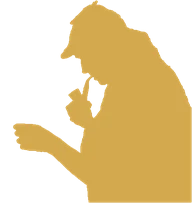
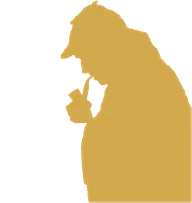
Hero: remove Sherlock's outstretched arm and the paper
Cuts the extended forearm out of the silhouette along a smooth coat
line so he simply stands smoking his pipe. Regenerates the traced
path, colour, normal map and brass icon from the new mask, drops the
paper meshes, and pulls the figure left on phones to stay centred.

Claude-Session: https://claude.ai/code/session_01Bi74Xs9USDGtjcCzuCmEsb

Changed region(s): [[0.0625, 0.5911, 0.4375, 0.9163], [0.375, 0.5911, 0.4688, 0.6502]]

diff --git a/components/three/sherlockPath.ts b/components/three/sherlockPath.ts
@@ -1,4 +1,4 @@
-// Traced from the reference silhouette (potrace, 1347×1425 px space), magnifier removed. Used to extrude the 3D Sherlock.
+// Traced from the reference silhouette (potrace, 1347×1425 px space), magnifier and outstretched arm removed. Used to extrude the 3D Sherlock.
 export const SHERLOCK_W = 1347
 export const SHERLOCK_H = 1425
-export const SHERLOCK_PATH = "M 669 7.5 C 665.0 11.0, 663.1 12, 660.4 12 C 655.0 12, 653.3 13.4, 649.5 20.9 C 644.5 30.8, 641.5 33, 633 33 C 627.2 33, 625.6 33.3, 623.3 35.3 C 621.7 36.6, 617.7 39.1, 614.3 40.8 C 610.9 42.5, 607.8 44.4, 607.4 45.0 C 607.1 45.5, 603.8 47.6, 600.1 49.5 C 586.4 56.8, 581 61.3, 581 65.6 C 581 67.9, 577.3 72.0, 559.7 89.4 C 548.0 101.0, 536.9 111.4, 534.9 112.5 C 533.0 113.6, 530.6 116.0, 529.5 117.9 C 526.4 123.1, 507.9 141.9, 503.7 144.0 C 501.7 145.1, 499.2 147.4, 498.3 149.2 C 497.4 151.0, 495.2 154.1, 493.3 156.2 C 488.9 161.2, 489.1 163.3, 494.4 168.7 C 498.8 173.1, 499.0 173.2, 503.6 172.5 C 509.8 171.6, 512.2 176.1, 508.7 182.3 C 508.1 183.5, 507.2 187.2, 506.9 190.5 C 506.1 197.6, 505.1 200.5, 499.3 212.7 C 496.2 219.4, 495 223.2, 495 226.5 C 495 229.5, 494.0 233.0, 492 237 C 489.9 241.0, 488.9 244.4, 488.9 247.7 C 488.9 250.3, 488.2 253.6, 487.5 255 C 486.4 256.8, 486.0 261.2, 486.0 271.3 C 486.0 280.2, 485.5 285.9, 484.7 287.3 C 484.1 288.5, 483.2 292.2, 482.9 295.5 C 482.1 302.5, 481.0 306.0, 476.3 315.5 C 474.4 319.3, 472.9 323.3, 472.9 324.3 C 472.9 325.4, 467.5 331.8, 460 339.5 C 447.5 352.1, 447 352.9, 447 356.8 C 447 359.8, 446.2 361.7, 444.1 364.2 C 442.6 366.0, 441.0 368.2, 440.6 369.2 C 440.3 370.2, 438.8 371.4, 437.4 372.0 C 436.0 372.5, 434.1 374.3, 433.2 376.0 C 432.2 377.7, 430.2 380.7, 428.7 382.7 C 426.2 385.9, 426 387.0, 426 394.7 L 426 403.3 431.3 408.6 L 436.6 414 443.4 414 C 447.1 414, 451.1 413.4, 452.3 412.7 C 453.5 412.1, 457.2 411.2, 460.5 410.9 C 467.9 410.1, 470.2 409.2, 487 401.2 C 494.9 397.4, 502.2 393.1, 504.7 390.8 C 509.2 386.7, 516.3 385.5, 521.0 388.0 C 523.3 389.2, 528 397.9, 528 401.0 C 528 405.4, 532.2 407.9, 539.7 408.0 C 543.7 408.0, 547.5 408.6, 549 409.5 C 550.3 410.2, 553.2 410.9, 555.3 410.9 C 558.5 410.9, 559.9 411.7, 563.1 414.8 L 567 418.7 567.0 433.1 C 567.0 443.7, 567.4 448.1, 568.5 450 C 569.3 451.4, 569.9 455.3, 570 459 C 570.0 462.6, 570.6 466.5, 571.5 468 C 572.2 469.3, 572.9 471.9, 572.9 473.8 C 572.9 475.6, 573.7 478.5, 574.6 480.2 C 575.9 482.8, 576.1 485.5, 575.7 495.4 L 575.2 507.5 579.4 511.7 L 583.7 516 593.4 516 C 600.5 516, 604.0 515.5, 606.3 514.3 C 612.2 511.2, 612.9 511, 614.8 511 C 617.5 511, 623.0 513.9, 623.7 515.8 C 624.0 516.7, 626.7 520.0, 629.6 523.1 C 635.3 529.2, 636.6 533.6, 633.3 536.2 C 632.4 536.9, 626.2 542.7, 619.5 549.2 C 606.0 562.2, 601.6 569.6, 597 586.5 C 595.9 590.3, 594.1 595.6, 592.3 599.7 C 591.6 601.5, 591 604.5, 591 606.3 C 591 608.5, 589.9 611.0, 588 613.5 C 585.2 616.9, 585 617.9, 585 625.1 C 585 631.4, 584.5 634.0, 582.5 638.1 C 579.7 643.9, 579.4 646.1, 581.1 648.8 C 582.5 651.1, 576.4 663.2, 573.6 663.8 C 572.4 664.0, 569.6 659.3, 562.6 645.2 C 553.1 626.3, 549.2 621, 545.0 621 C 542.8 621, 527.4 628.4, 526.5 629.9 C 526.1 630.5, 522.8 632.6, 519.1 634.5 C 509.2 639.7, 506.3 641.8, 498.5 649.1 C 494.6 652.7, 490.0 656.4, 488.3 657.3 C 484.1 659.4, 480 664.5, 480 667.6 C 480 669.2, 482.0 672.2, 486 676.5 C 489.3 680.0, 492 683.4, 492 684.0 C 492 684.6, 496.0 689.3, 501 694.5 C 505.9 699.6, 510 704.2, 510 704.8 C 510 706.6, 504.8 712.0, 501.6 713.6 C 499.9 714.5, 493.2 720.3, 486.9 726.6 C 480.5 732.8, 474.7 738, 474.1 738 C 472.0 738, 463.9 746.2, 461.9 750.3 C 459.4 755.5, 459.4 756.5, 462.5 762.8 C 463.8 765.6, 465 768.8, 465 769.8 C 465 770.8, 466.3 773.4, 468 775.5 C 469.6 777.5, 471.0 780.2, 471.0 781.3 C 471.0 782.5, 471.7 784.6, 472.5 786 C 473.2 787.3, 473.9 789.9, 473.9 791.7 C 474.0 796.1, 483.2 814.4, 488.1 819.7 C 492.0 824.0, 493.6 831.8, 491 833.5 C 488.4 835.0, 491.6 844.4, 496.1 848.6 C 498.2 850.5, 508.4 855.7, 516.2 858.8 C 517.7 859.4, 519 860.5, 519 861.2 C 519 863.4, 528.1 871.5, 533 873.7 C 538.0 875.9, 543.0 877.7, 547.5 879 C 557.3 881.6, 566.8 886.1, 569.9 889.4 C 572.5 892.2, 581.1 897, 583.5 897 C 585.4 897, 592.1 900.6, 593.0 902.1 C 593.4 902.7, 593.2 904.7, 592.5 906.4 C 589.9 912.5, 588.7 916.5, 588.0 921 C 587.6 923.4, 586.7 926.7, 585.9 928.2 C 584.8 930.5, 584.8 931.7, 585.8 934.5 C 586.7 936.9, 586.8 938.4, 586.0 939.9 C 585.4 940.9, 584.9 944.7, 584.9 948.1 C 584.9 951.7, 584.3 955.5, 583.5 957 C 582.7 958.3, 582.0 961.1, 582.0 963.1 C 582.0 965.5, 581.0 967.9, 579 970.5 C 576.5 973.5, 575.9 975.2, 575.9 979.3 C 575.9 982.1, 575.2 985.6, 574.5 987 C 573.7 988.3, 573.0 991.6, 573.0 994.2 C 573.0 997.5, 572.0 1000.9, 570 1005 C 567.9 1009.0, 567 1012.4, 567 1015.5 C 567 1018.0, 566.2 1021.4, 565.4 1023.1 C 564.1 1025.6, 563.9 1029.8, 564.1 1049.5 C 564.4 1070.6, 564.3 1073.0, 562.8 1073.0 C 561.9 1073, 560.6 1072.2, 559.9 1071.4 C 559.2 1070.5, 557.0 1068.9, 555.0 1067.8 C 550.3 1065.2, 545.4 1061.9, 540 1057.5 C 533.4 1052.2, 529.3 1049.5, 521.8 1045.5 C 518.1 1043.6, 514.8 1041.5, 514.5 1041.0 C 514.1 1040.4, 511.0 1038.5, 507.6 1036.8 C 504.2 1035.1, 500.6 1033.0, 499.6 1032.1 C 497.9 1030.6, 495.2 1028.8, 488.0 1024.5 C 486.1 1023.4, 482.5 1020.5, 479.8 1018.2 C 477.1 1015.9, 474.4 1014, 473.9 1014 C 473.3 1014, 470.0 1011.3, 466.5 1008 C 462.9 1004.7, 459.5 1002, 459 1002 C 458.4 1002, 455.0 999.3, 451.5 996 C 447.9 992.7, 444.5 990, 443.9 990 C 443.3 990, 438.6 986.0, 433.5 981.2 C 423.5 971.8, 421.0 969.9, 410.8 964.5 C 407.1 962.6, 403.8 960.5, 403.5 960.0 C 403.1 959.4, 400.0 957.5, 396.6 955.8 C 393.2 954.1, 389.6 952.0, 388.6 951.1 C 386.9 949.6, 384.2 947.8, 377.0 943.5 C 375.1 942.4, 371.5 939.7, 369 937.5 C 366.4 935.3, 362.9 932.7, 361.3 931.7 C 359.8 930.7, 356.4 928.6, 354 927 C 351.5 925.3, 348.2 923.2, 346.6 922.2 C 345.0 921.2, 342.5 919.5, 341.1 918.3 C 339.6 917.2, 334.3 914.1, 329.3 911.6 C 324.2 909.1, 319.8 906.5, 319.4 905.9 C 319.1 905.4, 314.4 902.6, 309.1 899.9 C 297.7 893.9, 294.4 891.9, 287.8 886.2 C 285.1 883.9, 282.0 882, 280.8 882 C 279.7 882, 277.3 881.2, 275.6 880.3 C 273.9 879.4, 271.3 878.0, 269.8 877.3 C 268.3 876.6, 264.3 875.9, 260.8 875.9 C 257.2 875.9, 253.4 875.3, 252 874.5 C 250.4 873.6, 246.4 873.0, 241.5 873 C 236.5 872.9, 232.5 872.3, 231 871.5 C 229.0 870.3, 223.3 870.0, 204 870 C 184.6 869.9, 178.9 869.6, 177 868.5 C 174.9 867.3, 168.7 867.0, 145.5 867.0 L 116.5 867.0 111.9 869.7 C 109.3 871.2, 105.7 873.4, 103.9 874.5 C 102.0 875.6, 98.8 878.1, 96.7 880.1 C 93.1 883.6, 93 883.9, 93 890.9 C 93 897.8, 93.0 898.1, 97.1 902.5 C 99.4 905.0, 103.7 908.3, 106.7 909.7 C 112.0 912.3, 112.1 912.5, 111.6 915.8 C 111.2 917.9, 109.4 920.9, 106.5 924.0 C 100.9 930.0, 100.3 935.7, 104.4 943.8 C 107.3 949.5, 115.0 956.9, 118.2 957.0 C 119.4 957.0, 121.6 957.7, 123 958.5 C 124.3 959.2, 126.9 959.9, 128.6 959.9 C 131.3 959.9, 135 962.0, 135 963.5 C 135 964.9, 126.0 973.4, 122.8 975.0 C 117.3 977.8, 112.6 988.4, 116 990.5 C 116.5 990.8, 117 992.4, 117 994.0 C 117 1000.0, 130.5 1011, 138.0 1011 C 143.2 1011, 145.3 1015.0, 142.5 1020 C 139.8 1024.6, 140.5 1038.2, 143.5 1041.9 C 147.6 1046.7, 155.1 1049.9, 162.3 1050.0 C 165.7 1050.0, 169.6 1050.7, 171 1051.5 C 172.4 1052.3, 176.3 1052.9, 180 1053 C 183.6 1053.0, 187.5 1053.6, 189 1054.5 C 190.3 1055.2, 193.1 1055.9, 195.0 1055.9 C 197.0 1055.9, 199.4 1056.6, 200.5 1057.4 C 202.1 1058.6, 207.0 1058.9, 226.6 1058.9 C 241.2 1058.9, 251.1 1059.3, 251.4 1059.9 C 253.3 1062.9, 261.4 1065, 271.5 1065 C 279.2 1065, 282.8 1065.4, 285.5 1066.7 C 288.6 1068.1, 289.5 1068.2, 292.2 1067.0 C 297.4 1064.9, 302.4 1064.6, 305.8 1066.4 C 307.9 1067.5, 311.6 1068, 317.8 1068 C 326.6 1068, 335.4 1070.7, 337.5 1074.0 C 337.8 1074.6, 343.8 1077.9, 350.8 1081.5 C 368.8 1090.8, 368.2 1090.3, 391.5 1113.2 C 403.1 1124.6, 413.2 1134, 414.0 1134 C 414.7 1134, 429.6 1148.1, 447 1165.5 C 464.3 1182.8, 479.2 1197, 479.9 1197 C 480.6 1197, 487.4 1202.9, 494.8 1210.2 C 502.3 1217.5, 510.0 1224.4, 511.9 1225.5 C 520.0 1230.2, 522.3 1231.9, 528.8 1238.3 C 532.6 1241.9, 536.3 1245, 536.9 1245 C 537.6 1245, 541.6 1248.3, 546 1252.5 C 550.3 1256.6, 554.3 1260, 554.9 1260 C 555.4 1260, 558.2 1262.0, 561 1264.5 C 563.7 1266.9, 566.4 1269, 567 1269 C 567.5 1269, 570.2 1271.0, 573 1273.5 C 575.7 1275.9, 578.5 1278, 579.0 1278 C 579.6 1278, 582.8 1280.5, 586.3 1283.7 C 589.8 1286.9, 594.1 1290.4, 595.9 1291.5 C 609.4 1299.5, 609.3 1299.4, 608.5 1308.5 C 608.0 1314.4, 608.2 1316.0, 609.9 1319.2 C 611.5 1322.0, 612.0 1324.8, 612.0 1330.7 C 612.0 1335.5, 612.6 1339.4, 613.5 1341 C 614.5 1342.9, 614.9 1347.9, 615 1362 C 615.0 1376.1, 615.4 1381.0, 616.5 1383 C 617.3 1384.5, 617.9 1388.5, 618 1393.5 C 618.0 1398.4, 618.6 1402.4, 619.5 1404 C 620.3 1405.3, 620.9 1409.2, 620.9 1412.6 C 620.9 1416.9, 621.4 1419.3, 622.5 1420.4 C 624.9 1422.8, 1340.0 1422.8, 1342.4 1420.4 C 1343.8 1419.0, 1344 1387.3, 1344 1086.9 L 1344 754.9 1340.1 750.7 C 1336.0 746.3, 1332 739.1, 1332 736.5 C 1332 735.6, 1329.3 729.5, 1326 723 C 1320.6 712.2, 1319.9 710.3, 1319.9 704.7 C 1319.9 701.2, 1319.3 697.4, 1318.5 696 C 1317.7 694.6, 1317.0 692.5, 1317.0 691.4 C 1317.0 690.3, 1315.8 687.8, 1314.5 686.0 C 1312.7 683.6, 1312.2 681.9, 1312.6 679.8 C 1313.3 676.4, 1311.9 674.4, 1308.2 673.6 C 1304.8 672.9, 1302.0 668.2, 1301.9 663.1 C 1301.9 661.1, 1301.2 658.3, 1300.5 657 C 1299.7 655.6, 1299.0 652.9, 1299 651 C 1298.9 649.0, 1298.2 646.3, 1297.5 645 C 1296.7 643.6, 1296.0 641.0, 1296.0 639.2 C 1295.9 634.9, 1292.0 627.3, 1287.9 623.5 C 1284.1 619.9, 1282.9 617.2, 1281.9 610.1 C 1281.2 605.7, 1280.3 603.9, 1277.1 600.6 C 1272.9 596.3, 1257 565.7, 1257 562.0 C 1257 561.0, 1255.9 558.8, 1254.6 557.3 C 1253.3 555.7, 1250.1 550.3, 1247.6 545.3 C 1245.1 540.2, 1242.5 535.8, 1241.9 535.4 C 1241.4 535.1, 1238.1 529.3, 1234.8 522.6 C 1231.4 515.9, 1227.0 508.5, 1224.8 506.2 C 1222.7 503.9, 1221 501.5, 1221 500.8 C 1221 500.2, 1214.8 493.5, 1207.4 485.9 C 1194.2 472.5, 1193.9 472.0, 1194.5 468.7 C 1195.4 463.7, 1193.2 462, 1186.3 462 C 1181.3 462, 1180.5 461.6, 1176.2 457.6 C 1173.6 455.2, 1170.7 453.0, 1169.7 452.6 C 1168.7 452.3, 1167.6 451.2, 1167.3 450.2 C 1166.9 449.2, 1163.3 445.0, 1159.3 440.8 C 1154.1 435.4, 1152 432.4, 1152 430.6 C 1152 427.4, 1149.5 425, 1146.3 425 C 1143.5 425, 1138.5 420.3, 1135.7 415.2 C 1134.8 413.4, 1133.0 411.5, 1131.6 411.0 C 1129.3 410.1, 1127.2 405.8, 1125.1 397.4 C 1124.6 395.8, 1123.7 393.4, 1123.1 392.2 C 1122.5 391.1, 1122 389.2, 1122 388.2 C 1122 387.1, 1120.6 384.5, 1119 382.5 C 1116.8 379.7, 1116 377.6, 1116 374.8 C 1116 371.8, 1115.2 370.1, 1112.3 366.9 C 1109.4 363.7, 1108.4 361.6, 1107.5 356.2 C 1105.1 343.7, 1102.4 337.8, 1098.4 336.6 C 1092.1 334.7, 1091.0 333.9, 1089.0 330.0 C 1087.7 327.5, 1085.5 325.3, 1083.2 324.0 C 1076.4 320.5, 1068 309.6, 1068 304.2 C 1068 301.7, 1065.2 298.0, 1062.5 297.0 C 1060.1 296.1, 1057.5 290.0, 1055.9 282 C 1054.1 272.2, 1053.1 268.5, 1052.3 268.2 C 1048.8 267.0, 1044.9 263.6, 1044.4 261.2 C 1044.1 259.7, 1042.5 255.5, 1041 252 C 1039.4 248.4, 1037.8 244.3, 1037.5 242.9 C 1036.8 239.3, 1021.9 225.0, 1018.8 224.9 C 1017.5 224.9, 1015.3 224.2, 1014 223.5 C 1012.3 222.5, 1008.3 222.0, 1002.2 222.0 C 996.8 222.0, 991.7 221.4, 989.7 220.6 C 985.6 218.8, 980.3 217.0, 976.5 216 C 972.6 214.9, 967.3 213.1, 963.2 211.3 C 961.2 210.5, 956.2 210, 950.5 210 C 942.2 210, 940.8 209.7, 938.3 207.6 C 932.3 202.7, 927.3 201, 919.5 201 C 911.6 201, 906.6 199.2, 900.6 194.3 C 899.1 193.0, 896.7 192, 895.3 192 C 892.3 192, 888 187.8, 888 185.0 C 888 183.8, 886.6 180.2, 885 177 C 883.3 173.7, 882 170.2, 882 169.1 C 882 168.1, 880.7 165.6, 879.2 163.6 C 874.4 157.3, 871 151.3, 871 149.1 C 871 148.0, 869.7 145.5, 868.1 143.7 C 866.5 141.9, 864.5 139.0, 863.6 137.2 C 862.4 134.9, 860.0 133.0, 855.0 130.5 C 847.0 126.4, 846 125.0, 846 117.9 C 846 113.1, 845.7 112.5, 840.2 106.8 C 834.8 101.2, 829.0 97.6, 821.5 95.3 C 819.6 94.7, 817.7 92.9, 816 90 C 814.2 87.0, 812.3 85.2, 810.4 84.6 C 804.3 82.8, 798.3 79.5, 794.2 75.8 C 790.9 72.8, 789.2 71.9, 786.2 71.9 C 784.1 71.9, 781.3 71.2, 780 70.5 C 778.6 69.7, 775.2 69.0, 772.5 69 C 769.7 68.9, 766.3 68.2, 765 67.5 C 763.6 66.7, 761.5 66.0, 760.3 66.0 C 759.2 66.0, 756.6 64.7, 754.7 63.2 C 752.7 61.7, 749.9 59.7, 748.3 58.7 C 746.7 57.7, 743.4 55.6, 741 54 C 738.5 52.3, 735.2 50.2, 733.6 49.2 C 732.0 48.2, 729.5 46.5, 728.1 45.4 C 724.2 42.3, 714.2 38, 706.4 36.0 C 704.8 35.6, 702.4 34.7, 701.2 34.1 C 700.0 33.4, 694.6 33, 688.5 33 C 677.2 33, 674.9 31.9, 678.2 28.2 C 680.5 25.7, 686 13.9, 686 11.7 C 686 8.8, 679.6 3, 676.6 3 C 675.0 3, 672.2 4.6, 669 7.5 M 649.9 542.5 C 649.2 543.4, 647.0 544.9, 645.0 545.9 C 639.4 548.9, 631.5 557.8, 627.5 565.7 L 624 572.9 623.9 597.2 C 623.9 616.3, 623.6 622.0, 622.5 624 C 621.6 625.4, 621.0 629.3, 621 633 C 620.9 636.6, 620.3 640.5, 619.5 642 C 618.7 643.3, 618.0 646.7, 618 649.5 C 617.9 652.2, 617.2 655.6, 616.5 657 C 615.6 658.4, 615.0 662.3, 615 666 C 614.9 669.6, 614.3 673.5, 613.5 675 C 612.4 676.8, 612.0 681.2, 612.0 691.1 C 611.9 707.1, 612.3 708, 619.9 708 C 625.6 708, 629.8 710.9, 632.9 716.8 C 633.9 718.8, 636.0 721.6, 637.5 723 C 640.4 725.6, 645 733.9, 645 736.4 C 645 737.3, 643.6 740.7, 642 744 C 640.3 747.2, 639 750.7, 639 751.8 C 639 752.8, 637.6 755.4, 636 757.5 C 632.1 762.2, 632.2 763.6, 636.5 771.8 C 638.4 775.5, 640 780.1, 640 781.9 C 640 783.7, 641.0 787.3, 642.3 789.8 C 644.0 793.3, 644.8 796.9, 645.3 804.4 C 645.8 812.4, 646.4 815.0, 648.3 817.9 C 649.6 819.8, 651.4 822.7, 652.3 824.2 C 655.4 829.3, 658.5 828.1, 668.5 817.7 C 673.4 812.6, 678.4 806.9, 679.5 805.0 C 683.6 798.0, 685.6 794.9, 687.8 792.6 C 689.0 791.4, 690 789.8, 690 789.2 C 690 788.6, 691.3 787.1, 693 786 C 694.6 784.8, 696 783.2, 696 782.5 C 696 781.8, 696.9 780.4, 698.1 779.4 C 703.0 774.9, 705 768.7, 705 757.5 C 705 750.9, 705.5 745.8, 706.3 743.7 C 709.0 737.3, 710.2 733.4, 710.9 728.8 C 711.3 726.0, 712.6 722.9, 714.3 721.0 C 715.7 719.2, 717.0 716.8, 717.0 715.6 C 717.0 714.4, 717.7 712.3, 718.5 711 C 719.2 709.6, 719.9 706.3, 719.9 703.7 C 719.9 700.2, 721.1 696.5, 724.3 689.7 C 730.4 676.8, 730.9 674.9, 731.6 662 C 732.0 655.5, 732.8 649.3, 733.6 647.8 C 734.3 646.3, 735 643.0, 735 640.5 C 735 635.6, 745.6 612.6, 750.6 606.6 C 753.0 603.8, 754 594.7, 752.3 590.5 C 751.6 588.5, 747.6 588.5, 745.9 590.5 C 740.2 597.3, 716.6 599.7, 706.1 594.4 C 701.2 592.0, 699.5 590.3, 694.4 583 C 691.7 579.0, 690.6 576.8, 689.3 572.5 C 688.1 568.4, 680.2 564.1, 673.7 564.0 C 669.2 564.0, 661.4 560.9, 659.7 558.5 C 659.3 557.9, 659.0 555.1, 659.0 552.2 C 658.9 543.0, 653.9 537.7, 649.9 542.5"
+export const SHERLOCK_PATH = "M 669 7.5 C 665.0 11.0, 663.1 12, 660.4 12 C 655.0 12, 653.3 13.4, 649.5 20.9 C 644.5 30.8, 641.5 33, 633 33 C 627.2 33, 625.6 33.3, 623.3 35.3 C 621.7 36.6, 617.7 39.1, 614.3 40.8 C 610.9 42.5, 607.8 44.4, 607.4 45.0 C 607.1 45.5, 603.8 47.6, 600.1 49.5 C 586.4 56.8, 581 61.3, 581 65.6 C 581 67.9, 577.3 72.0, 559.7 89.4 C 548.0 101.0, 536.9 111.4, 534.9 112.5 C 533.0 113.6, 530.6 116.0, 529.5 117.9 C 526.4 123.1, 507.9 141.9, 503.7 144.0 C 501.7 145.1, 499.2 147.4, 498.3 149.2 C 497.4 151.0, 495.4 153.9, 493.8 155.7 C 489.7 160.5, 490.0 164.2, 495.0 169.2 C 498.7 172.9, 499.2 173.2, 503.1 172.5 C 505.6 172.1, 507.7 172.3, 508.6 173.0 C 510.3 174.5, 510.4 179.3, 508.7 182.3 C 508.1 183.5, 507.2 187.2, 506.9 190.5 C 506.1 197.6, 505.1 200.5, 499.3 212.7 C 496.2 219.4, 495 223.2, 495 226.5 C 495 229.5, 494.0 233.0, 492 237 C 489.9 241.0, 488.9 244.4, 488.9 247.7 C 488.9 250.3, 488.2 253.6, 487.5 255 C 486.4 256.8, 486.0 261.2, 486.0 271.3 C 486.0 280.2, 485.5 285.9, 484.7 287.3 C 484.1 288.5, 483.2 292.2, 482.9 295.5 C 482.1 302.5, 481.0 306.0, 476.3 315.5 C 474.4 319.3, 472.9 323.3, 472.9 324.3 C 472.9 325.4, 467.5 331.8, 460 339.5 C 447.5 352.1, 447 352.9, 447 356.8 C 447 359.8, 446.2 361.7, 444.1 364.2 C 442.6 366.0, 441.0 368.2, 440.6 369.2 C 440.3 370.2, 438.8 371.4, 437.4 372.0 C 436.0 372.5, 434.1 374.3, 433.2 376.0 C 432.2 377.7, 430.2 380.7, 428.7 382.7 C 426.2 385.9, 426 387.0, 426 394.7 L 426 403.3 431.3 408.6 L 436.6 414 443.4 414 C 447.1 414, 451.1 413.4, 452.3 412.7 C 453.5 412.1, 457.2 411.2, 460.5 410.9 C 467.9 410.1, 470.2 409.2, 487 401.2 C 494.9 397.4, 502.2 393.1, 504.7 390.8 C 509.2 386.7, 516.3 385.5, 521.0 388.0 C 523.3 389.2, 528 397.9, 528 401.0 C 528 405.4, 532.2 407.9, 539.7 408.0 C 543.7 408.0, 547.5 408.6, 549 409.5 C 550.3 410.2, 553.2 410.9, 555.3 410.9 C 558.5 410.9, 559.9 411.7, 563.1 414.8 L 567 418.7 567.0 433.1 C 567.0 443.7, 567.4 448.1, 568.5 450 C 569.3 451.4, 569.9 455.3, 570 459 C 570.0 462.6, 570.6 466.5, 571.5 468 C 572.2 469.3, 572.9 471.9, 572.9 473.8 C 572.9 475.6, 573.7 478.5, 574.6 480.2 C 575.9 482.8, 576.1 485.5, 575.7 495.4 L 575.2 507.5 579.4 511.7 L 583.7 516 593.4 516 C 600.5 516, 604.0 515.5, 606.3 514.3 C 612.2 511.2, 612.9 511, 614.8 511 C 617.5 511, 623.0 513.9, 623.7 515.8 C 624.0 516.7, 626.7 520.0, 629.6 523.1 C 637.5 531.5, 637.5 531.5, 621.2 547.4 C 606.0 562.2, 601.8 569.0, 597 586.5 C 595.9 590.3, 594.1 595.6, 592.3 599.7 C 591.6 601.5, 591 604.5, 591 606.3 C 591 608.5, 589.9 611.0, 588 613.5 C 585.2 616.9, 585 617.9, 585 625.1 C 585 631.4, 584.5 634.0, 582.5 638.1 C 579.7 643.8, 579.4 646.1, 581.0 649.0 C 581.8 650.6, 581.4 652.2, 578.9 656.9 C 573.5 667.1, 573.5 667.1, 562.1 644.3 C 553.1 626.3, 549.2 621, 545.0 621 C 542.8 621, 527.4 628.4, 526.5 629.9 C 526.1 630.5, 522.8 632.6, 519.1 634.5 C 509.2 639.7, 506.3 641.8, 498.5 649.1 C 494.6 652.7, 490.0 656.4, 488.3 657.3 C 484.1 659.4, 480 664.5, 480 667.6 C 480 669.3, 481.8 672.0, 485.3 675.8 C 488.3 678.9, 491.4 682.8, 492.2 684.5 C 493.1 686.1, 497.2 690.8, 501.4 694.9 C 510.3 703.8, 510.9 706.0, 505.4 710.8 C 503.5 712.6, 501.4 714, 500.8 714 C 500.2 714, 494.2 719.4, 487.5 726 C 480.7 732.6, 474.7 738, 474.1 738 C 472.0 738, 463.9 746.2, 461.9 750.3 C 459.4 755.5, 459.4 756.5, 462.5 762.8 C 463.8 765.6, 465 768.8, 465 769.8 C 465 770.8, 466.3 773.4, 468 775.5 C 469.6 777.5, 471.0 780.2, 471.0 781.3 C 471.0 782.5, 471.7 784.6, 472.5 786 C 473.2 787.3, 473.9 789.9, 473.9 791.7 C 474.0 796.1, 483.2 814.4, 488.1 819.7 C 492.0 824.0, 493.6 831.8, 491 833.5 C 488.5 835.0, 490.9 842.9, 495.3 847.8 C 497.5 850.2, 512.1 858, 514.6 858 C 515.3 858, 517.1 859.3, 518.6 861 L 521.3 864 565.6 864 C 598.4 864, 610 864.3, 610 865.1 C 610 865.7, 607.8 869.7, 605.1 873.9 C 595.1 889.5, 591.7 896.7, 592.4 900.5 C 593.0 903.9, 592.2 908.0, 589.3 914.7 C 588.6 916.5, 588 919.3, 588 921 C 588 922.6, 587.2 925.5, 586.3 927.4 C 584.8 930.5, 584.7 931.5, 585.8 934.4 C 586.7 936.9, 586.8 938.4, 586.0 939.9 C 585.4 940.9, 584.9 944.7, 584.9 948.1 C 584.9 951.7, 584.3 955.5, 583.5 957 C 582.7 958.3, 582.0 961.1, 582.0 963.1 C 582.0 965.5, 581.0 967.9, 579 970.5 C 576.5 973.5, 575.9 975.2, 575.9 979.3 C 575.9 982.1, 575.2 985.6, 574.5 987 C 573.7 988.3, 573.0 991.6, 573.0 994.3 C 573.0 996.9, 572.3 1000.3, 571.6 1001.8 C 564.8 1015.0, 571.6 1147.3, 584.5 1254.5 C 588.4 1287.1, 588.4 1287.1, 593.7 1289.9 C 598.7 1292.7, 603.9 1296.3, 606.8 1298.9 C 609.0 1301.0, 609.1 1301.6, 608.5 1308.3 C 608.0 1314.4, 608.2 1316.0, 609.9 1319.2 C 611.5 1322.0, 612.0 1324.8, 612.0 1330.7 C 612.0 1335.5, 612.6 1339.4, 613.5 1341 C 614.5 1342.9, 614.9 1347.9, 615 1362 C 615.0 1376.1, 615.4 1381.0, 616.5 1383 C 617.3 1384.5, 617.9 1388.5, 618 1393.5 C 618.0 1398.4, 618.6 1402.4, 619.5 1404 C 620.2 1405.3, 620.9 1409.2, 620.9 1412.5 C 620.9 1417.1, 621.4 1419.0, 622.8 1420.3 C 625.8 1423.0, 1339.8 1422.8, 1342.3 1420.1 C 1343.8 1418.4, 1344 1393.8, 1344 1086.6 L 1344 754.9 1340.1 750.7 C 1336.0 746.3, 1332 739.1, 1332 736.5 C 1332 735.6, 1329.3 729.5, 1326 723 C 1320.6 712.2, 1319.9 710.3, 1319.9 704.7 C 1319.9 701.2, 1319.3 697.4, 1318.5 696 C 1317.7 694.6, 1317.0 692.5, 1317.0 691.3 C 1317.0 690.2, 1316.1 688.1, 1315 686.7 C 1313.8 685.2, 1313 682.6, 1313 680.6 C 1313 677.0, 1310.9 674, 1308.4 674 C 1305.9 674, 1302.0 667.5, 1301.9 663.4 C 1301.9 661.2, 1301.2 658.3, 1300.5 657 C 1299.7 655.6, 1299.0 652.9, 1299 651 C 1298.9 649.0, 1298.2 646.3, 1297.5 645 C 1296.7 643.6, 1296.0 641.0, 1296.0 639.2 C 1295.9 634.9, 1292.0 627.3, 1287.9 623.5 C 1284.1 619.9, 1282.9 617.2, 1281.9 610.1 C 1281.2 605.7, 1280.3 603.9, 1277.1 600.6 C 1272.9 596.3, 1257 565.7, 1257 562.0 C 1257 561.0, 1255.9 558.8, 1254.6 557.3 C 1253.3 555.7, 1250.1 550.3, 1247.6 545.3 C 1245.1 540.2, 1242.5 535.8, 1241.9 535.4 C 1241.4 535.1, 1238.1 529.3, 1234.8 522.6 C 1231.4 515.9, 1227.0 508.5, 1224.8 506.2 C 1222.7 503.9, 1221 501.5, 1221 500.8 C 1221 500.2, 1214.9 493.5, 1207.5 486 C 1194.7 473.0, 1194 472.0, 1194 468.3 C 1194 463.1, 1192.6 462, 1186.2 462 C 1181.3 462, 1180.5 461.6, 1176.2 457.6 C 1173.6 455.2, 1170.7 453.0, 1169.7 452.6 C 1168.7 452.3, 1167.6 451.2, 1167.3 450.2 C 1166.9 449.2, 1163.3 445.0, 1159.3 440.8 C 1154.2 435.5, 1152 432.4, 1152 430.7 C 1152 427.8, 1149.1 425, 1146.3 425 C 1143.3 425, 1139.2 421.4, 1136.9 416.8 C 1135.7 414.6, 1133.5 412.0, 1131.9 411.1 C 1129.2 409.5, 1127.2 405.6, 1125.1 397.4 C 1124.6 395.8, 1123.7 393.4, 1123.1 392.2 C 1122.5 391.1, 1122 389.2, 1122 388.2 C 1122 387.1, 1120.6 384.5, 1119 382.5 C 1116.8 379.7, 1116 377.6, 1116 374.8 C 1116 371.8, 1115.2 370.1, 1112.3 366.9 C 1109.4 363.7, 1108.4 361.6, 1107.5 356.2 C 1105.1 343.7, 1102.4 337.8, 1098.4 336.6 C 1092.1 334.7, 1091.0 333.9, 1089.0 330.0 C 1087.7 327.4, 1085.5 325.3, 1083.1 324.0 C 1076.0 320.4, 1070.4 312.7, 1067.3 302.5 C 1066.8 300.8, 1065.0 298.6, 1063.2 297.5 C 1059.9 295.3, 1057.5 290.2, 1055.9 282 C 1053.5 269.4, 1053.6 269.6, 1049.2 266.7 C 1046.5 264.9, 1044.7 262.8, 1044.4 261.1 C 1044.1 259.7, 1042.5 255.5, 1041 252 C 1039.4 248.4, 1037.8 244.3, 1037.5 242.9 C 1036.8 239.3, 1021.9 225.0, 1018.8 224.9 C 1017.5 224.9, 1015.3 224.2, 1014 223.5 C 1012.3 222.5, 1008.3 222.0, 1002.2 222.0 C 996.8 222.0, 991.7 221.4, 989.7 220.6 C 985.6 218.8, 980.3 217.0, 976.5 216 C 972.6 214.9, 967.3 213.1, 963.2 211.3 C 961.2 210.5, 956.2 210, 950.5 210 C 942.2 210, 940.8 209.7, 938.3 207.6 C 932.3 202.7, 927.3 201, 919.5 201 C 911.6 201, 906.6 199.2, 900.6 194.3 C 899.1 193.0, 896.7 192, 895.3 192 C 892.3 192, 888 187.8, 888 185.0 C 888 183.8, 886.6 180.2, 885 177 C 883.3 173.7, 882 170.2, 882 169.1 C 882 168.1, 880.7 165.6, 879.2 163.6 C 874.4 157.3, 871 151.3, 871 149.1 C 871 148.0, 869.7 145.5, 868.1 143.7 C 866.5 141.9, 864.5 139.0, 863.6 137.2 C 862.4 134.9, 860.0 133.0, 855.0 130.5 C 847.0 126.4, 846 125.0, 846 117.9 C 846 113.1, 845.7 112.5, 840.2 106.8 C 834.8 101.2, 829.0 97.6, 821.5 95.3 C 819.6 94.7, 817.7 92.9, 816 90 C 814.2 87.0, 812.3 85.2, 810.4 84.6 C 804.3 82.8, 798.3 79.5, 794.2 75.8 C 790.9 72.8, 789.2 71.9, 786.2 71.9 C 784.1 71.9, 781.3 71.2, 780 70.5 C 778.6 69.7, 775.2 69.0, 772.5 69 C 769.7 68.9, 766.3 68.2, 765 67.5 C 763.6 66.7, 761.5 66.0, 760.3 66.0 C 759.2 66.0, 756.6 64.7, 754.7 63.2 C 752.7 61.7, 749.9 59.7, 748.3 58.7 C 746.7 57.7, 743.4 55.6, 741 54 C 738.5 52.3, 735.2 50.2, 733.6 49.2 C 732.0 48.2, 729.5 46.5, 728.1 45.4 C 724.2 42.3, 714.2 38, 706.4 36.0 C 704.8 35.6, 702.4 34.7, 701.2 34.1 C 700.0 33.5, 694.8 33, 689.2 33 C 676.3 33, 676.2 32.8, 681.6 22.4 C 686.8 12.2, 686.9 10.7, 682.6 6.4 C 677.9 1.7, 675.2 1.9, 669 7.5 M 648.1 543.7 C 639.4 549.1, 632 557.0, 627.8 565.2 L 624 572.9 623.9 597.2 C 623.9 616.3, 623.6 622.0, 622.5 624 C 621.6 625.4, 621.0 629.3, 621 633 C 620.9 636.6, 620.3 640.5, 619.5 642 C 618.7 643.3, 618.0 646.7, 618 649.5 C 617.9 652.2, 617.2 655.6, 616.5 657 C 615.6 658.4, 615.0 662.3, 615 666 C 614.9 669.6, 614.3 673.5, 613.5 675 C 612.4 676.8, 612.0 681.1, 612.0 691.0 C 611.9 706.9, 612.5 708, 620.2 708 C 625.6 708, 629.9 711.0, 632.9 716.8 C 633.9 718.8, 636.0 721.6, 637.5 723 C 640.4 725.6, 645 733.9, 645 736.4 C 645 737.3, 643.6 740.7, 642 744 C 640.3 747.2, 639 750.7, 639 751.8 C 639 752.8, 637.6 755.4, 636 757.5 C 632.1 762.2, 632.2 763.6, 636.5 771.8 C 638.4 775.5, 640 780.1, 640 781.9 C 640 783.7, 641.0 787.3, 642.3 789.8 C 644.0 793.3, 644.8 796.9, 645.3 804.3 C 645.8 812.9, 646.3 814.8, 648.9 818.8 C 653.0 825.3, 654.6 827, 657.1 827 C 659.6 827, 675.2 812.1, 678.1 807 C 680.5 802.5, 684.1 797.3, 687.4 793.3 C 688.8 791.6, 690 789.7, 690 789.1 C 690 788.6, 691.3 787.1, 693 786 C 694.6 784.8, 696 783.2, 696 782.5 C 696 781.8, 696.9 780.4, 698.1 779.4 C 703.0 774.9, 705 768.7, 705 757.5 C 705 750.9, 705.5 745.8, 706.3 743.7 C 709.0 737.3, 710.2 733.4, 710.9 728.8 C 711.3 726.0, 712.6 722.9, 714.3 721.0 C 715.7 719.2, 717.0 716.8, 717.0 715.6 C 717.0 714.4, 717.7 712.3, 718.5 711 C 719.2 709.6, 719.9 706.3, 719.9 703.7 C 719.9 700.2, 721.1 696.5, 724.3 689.7 C 730.4 676.8, 730.9 674.9, 731.6 662 C 732.0 655.5, 732.8 649.3, 733.6 647.8 C 734.3 646.3, 735 643.0, 735 640.5 C 735 635.6, 745.6 612.6, 750.6 606.6 C 753.5 603.1, 754.1 592.1, 751.4 589.9 C 749.8 588.5, 749.7 588.6, 740.5 593.9 C 735.7 596.7, 734.8 596.8, 723.3 596.9 C 706.6 597.0, 702.9 595.2, 694.4 583 C 691.7 579.0, 690.6 576.8, 689.3 572.5 C 688.1 568.3, 680.2 564.1, 673.6 564.0 C 669.0 564.0, 664.7 562.3, 660.7 559.1 C 659.4 558.0, 659 556.2, 659 552.2 C 659 545.4, 656.8 541.0, 653.5 541.0 C 652.9 541.0, 650.5 542.2, 648.1 543.7"

diff --git a/components/three/SherlockScene.tsx b/components/three/SherlockScene.tsx
@@ -91,62 +91,6 @@ function PipeSmoke({ origin }: { origin: THREE.Vector3 }) {
   )
 }
 
-// A sheet of paper in his fist, cut from the same silhouette: same extrusion, bevel and near-black finish.
-// A thin folded letter in his fist, cut from the same silhouette (near-black face, brass edge).
-// Two panels meet at a centre crease; the top-right corner is folded over as a flap. y from the top.
-const CREASE: [[number, number], [number, number]] = [[197, 968], [115, 630]]
-const PAPER_L: [number, number][] = [[197, 968], [118, 985], [102, 930], [88, 874], [75, 818], [66, 762], [58, 705], [52, 648], [78, 643], [104, 637], [115, 630]]
-const PAPER_R: [number, number][] = [[115, 630], [129, 628], [150, 619], [234, 718], [243, 749], [256, 798], [265, 848], [271, 899], [276, 950], [197, 968]]
-const FOLD = 0.32 // radians each panel tips back from the crease
-
-function usePaperGeometry() {
-  return useMemo(() => {
-    const up = ([x, y]: [number, number]) => new THREE.Vector2(x, SHERLOCK_H - y)
-    const sheet = (pts: THREE.Vector2[], z: number) => {
-      const g = new THREE.ExtrudeGeometry(new THREE.Shape(pts), {
-        depth: 2,
-        bevelEnabled: true,
-        bevelThickness: 1.5,
-        bevelSize: 1.5,
-        bevelSegments: 1,
-        curveSegments: 4,
-      })
-      g.translate(0, 0, z - 1)
-      return g
-    }
-    // the dog-ear: reflect the missing corner across the fold line so the flap lies on the right panel
-    const [p1, p2, p3, p4] = [up([129, 628]), up([150, 619]), up([234, 718]), up([243, 749])]
-    const corner = (() => {
-      const d1 = p2.clone().sub(p1)
-      const d2 = p3.clone().sub(p4)
-      const t = ((p4.x - p1.x) * d2.y - (p4.y - p1.y) * d2.x) / (d1.x * d2.y - d1.y * d2.x)
-      return p1.clone().add(d1.multiplyScalar(t))
-    })()
-    const axis = p3.clone().sub(p2).normalize()
-    const rel = corner.clone().sub(p2)
-    const folded = p2.clone().add(axis.clone().multiplyScalar(2 * rel.dot(axis))).sub(rel)
-
-    const c0 = up(CREASE[0])
-    const c1 = up(CREASE[1])
-    const dir = new THREE.Vector3(c1.x - c0.x, c1.y - c0.y, 0).normalize()
-    const hinge = (g: THREE.BufferGeometry, angle: number) =>
-      g
-        .translate(-c0.x, -c0.y, 0)
-        .applyMatrix4(new THREE.Matrix4().makeRotationAxis(dir, angle))
-        .translate(c0.x, c0.y, 0)
-
-    return [
-      hinge(sheet(PAPER_L.map(up), 0), -FOLD),
-      hinge(sheet(PAPER_R.map(up), 0), FOLD),
-      hinge(sheet([p2, p3, folded], 5), FOLD * 1.6),
-    ].map((g) => {
-      g.translate(-SHERLOCK_W / 2, -SHERLOCK_H / 2, 0).scale(S, S, S)
-      g.computeVertexNormals()
-      return g
-    })
-  }, [])
-}
-
 function Sherlock({ onPoke, shift, lift }: { onPoke: () => void; shift: number; lift: number }) {
   const geometry = useSherlockGeometry()
   const [color, normal] = useTexture(["/models/sherlock-color.webp", "/models/sherlock-normal.webp"])
@@ -175,8 +119,6 @@ function Sherlock({ onPoke, shift, lift }: { onPoke: () => void; shift: number; 
     [color, normal],
   )
   const sides = useMemo(() => new THREE.MeshStandardMaterial({ color: "#3a2c1d", roughness: 0.7, metalness: 0.25 }), [])
-  const paper = usePaperGeometry()
-  const paperCaps = useMemo(() => new THREE.MeshStandardMaterial({ color: "#1c140d", roughness: 0.7, metalness: 0.05, side: THREE.DoubleSide }), [])
 
   useFrame((state, dt) => {
     const t = state.clock.elapsedTime
@@ -203,9 +145,6 @@ function Sherlock({ onPoke, shift, lift }: { onPoke: () => void; shift: number; 
       onPointerOut={() => (document.body.style.cursor = "")}
     >
       <mesh geometry={geometry} material={[caps, sides]} castShadow />
-      {paper.map((g, i) => (
-        <mesh key={i} geometry={g} material={[paperCaps, sides]} castShadow />
-      ))}
       {/* pipe ember + smoke */}
       <mesh position={[PIPE.x, PIPE.y, frontZ]}>
         <sphereGeometry args={[0.028, 12, 12]} />
@@ -319,7 +258,7 @@ export default function SherlockScene({
       <LightShaft />
       <Suspense fallback={null}>
         <Float speed={1.1} rotationIntensity={0.04} floatIntensity={0.18} floatingRange={[-0.03, 0.04]}>
-          <Sherlock onPoke={poke} shift={offsetX === 0 ? 1.35 : 0} lift={offsetX === 0 ? -0.35 : 0} />
+          <Sherlock onPoke={poke} shift={offsetX === 0 ? 0.75 : 0} lift={offsetX === 0 ? -0.35 : 0} />
         </Float>
       </Suspense>
       <Sparkles count={lite ? 30 : 70} scale={[6, 5, 3]} position={[1, 0.6, -1]} size={2} speed={0.18} color="#e6c77f" opacity={0.45} />
